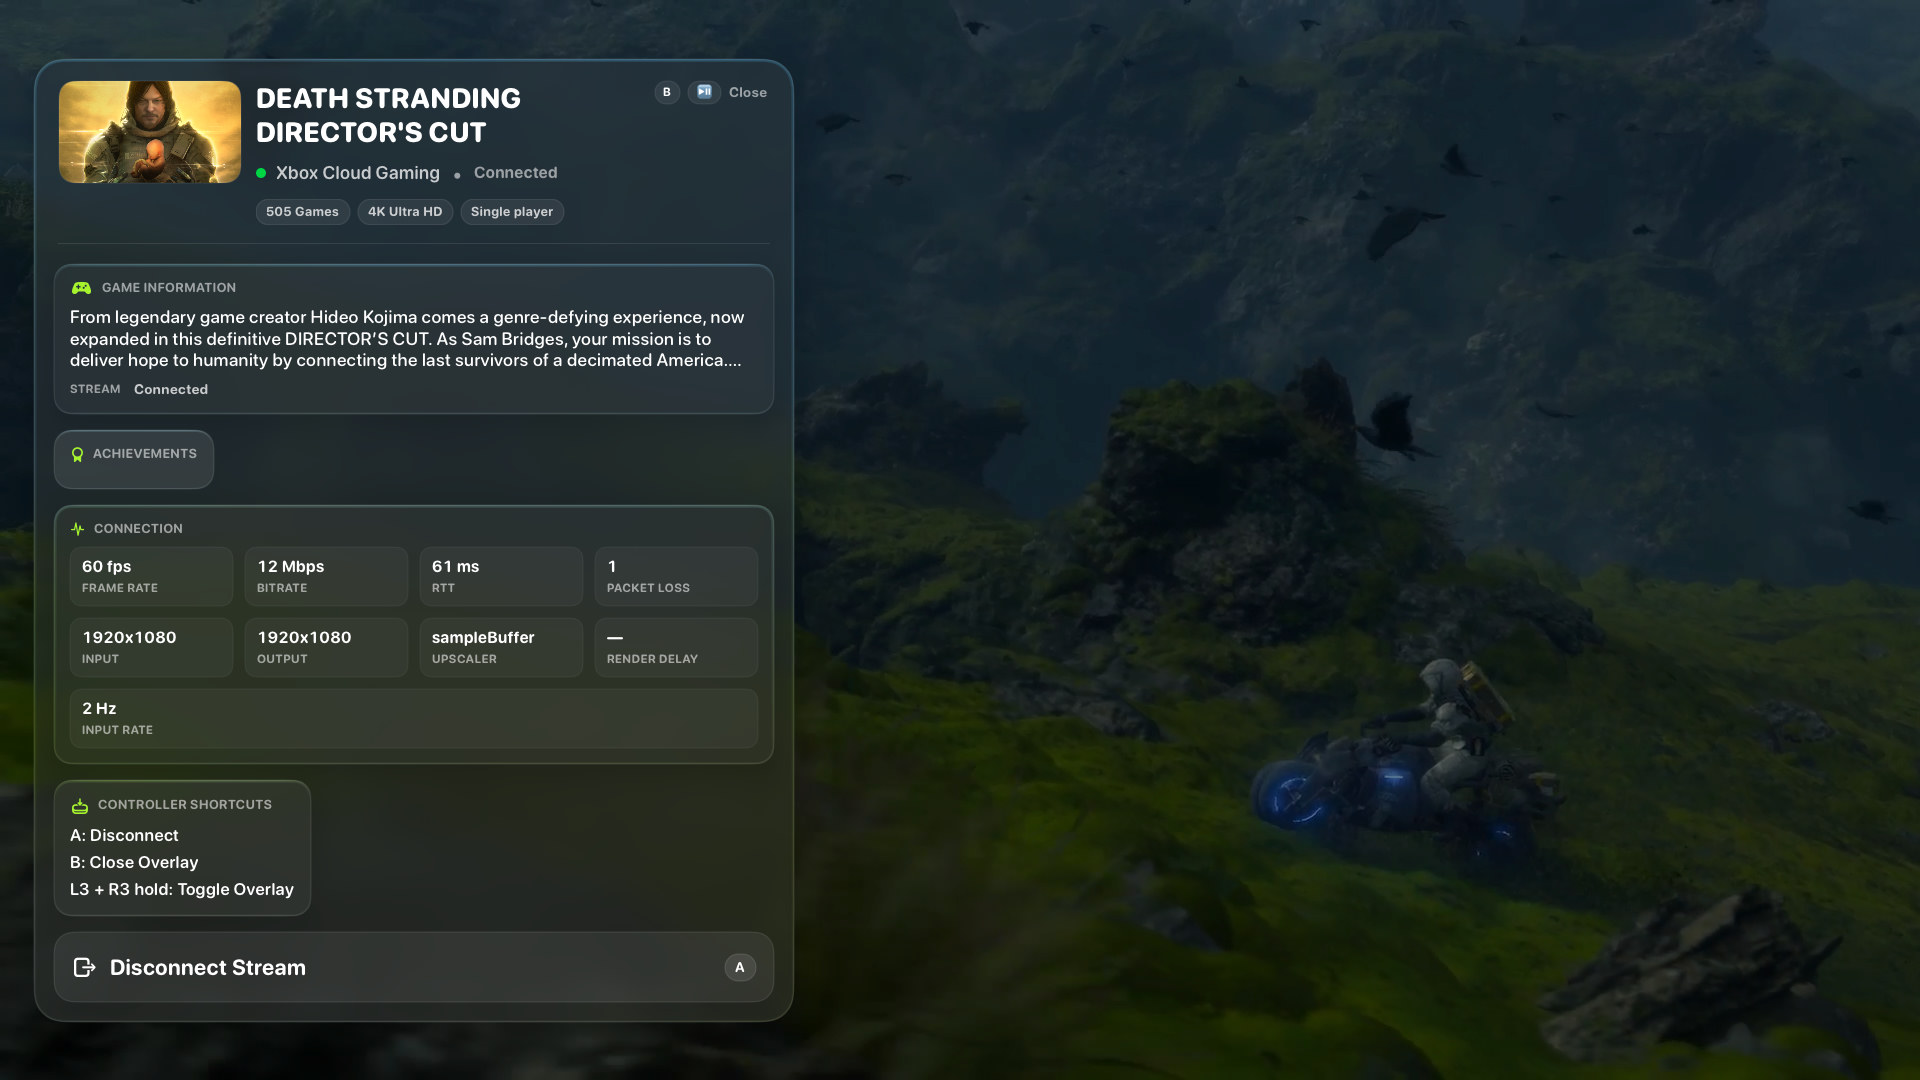
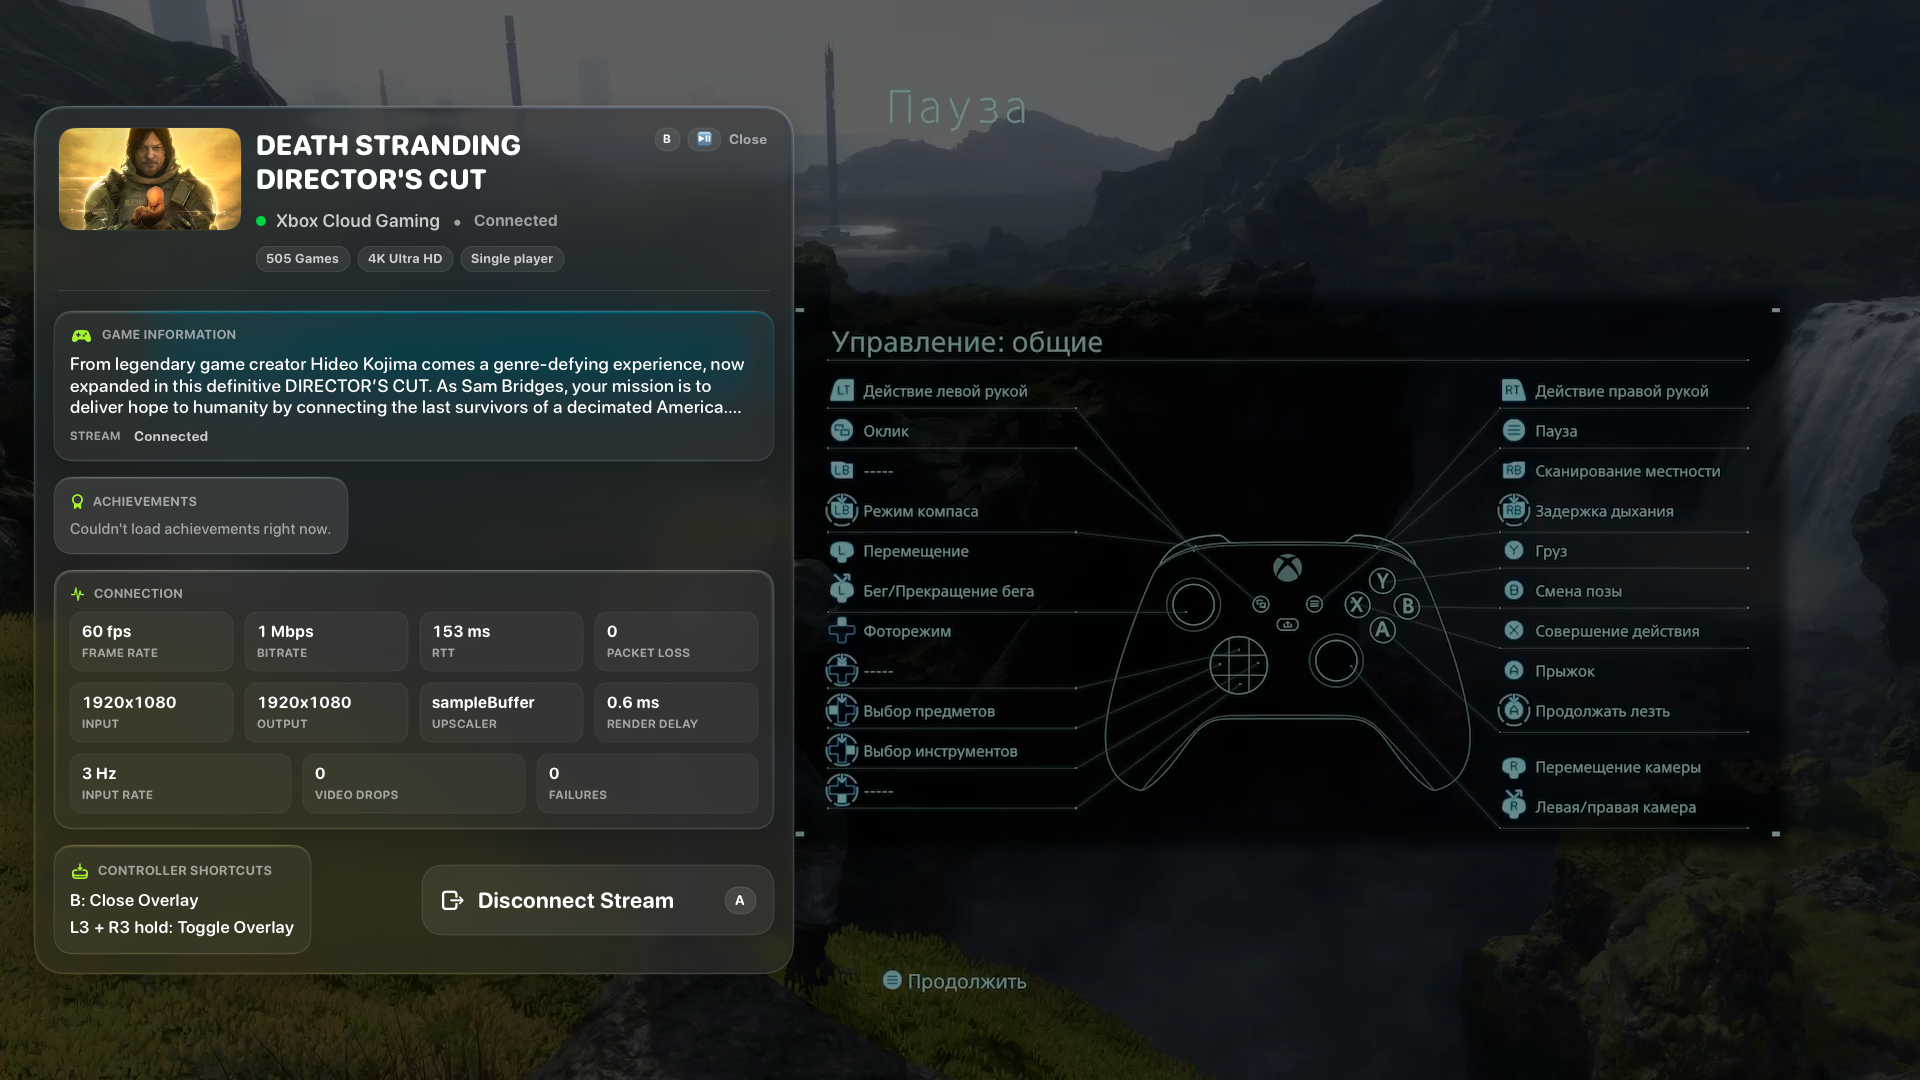
docs: add the stream loading screenshot and refresh the overlay shot
Show the provisioning screen and replace the in-stream overlay screenshot with the updated layout.

diff --git a/README.md b/README.md
@@ -31,6 +31,8 @@ Stratix is not a direct port of those codebases. It is a native tvOS implementat
 
 ![Game Details](Docs/Screenshots/Game_Details.png)
 
+![Stream Loading](Docs/Screenshots/Stream_Loading.jpg)
+
 ![Stream Overlay](Docs/Screenshots/Stream_Overlay.png)
 
 ---
